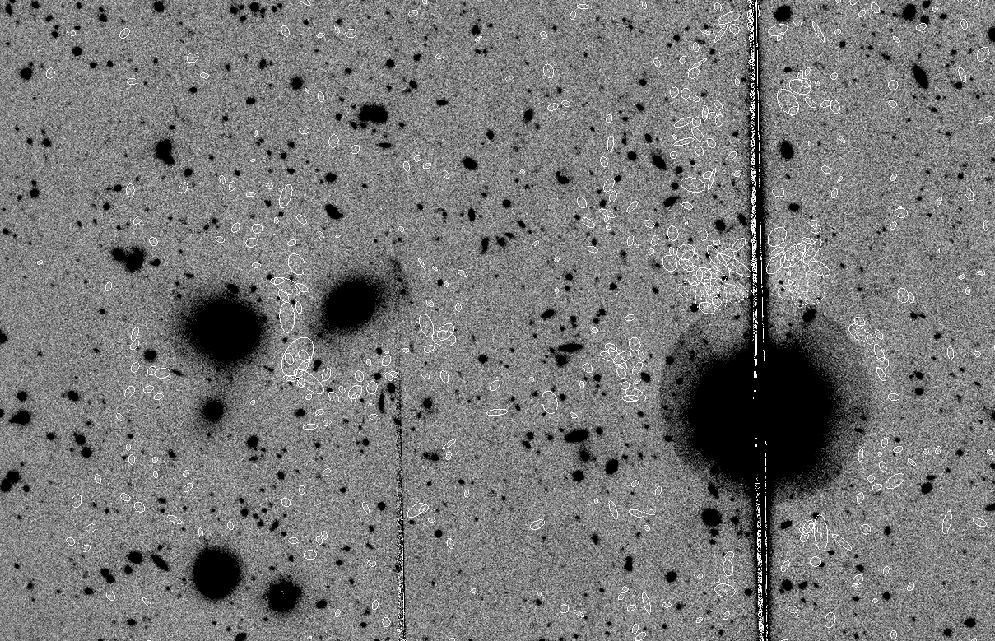
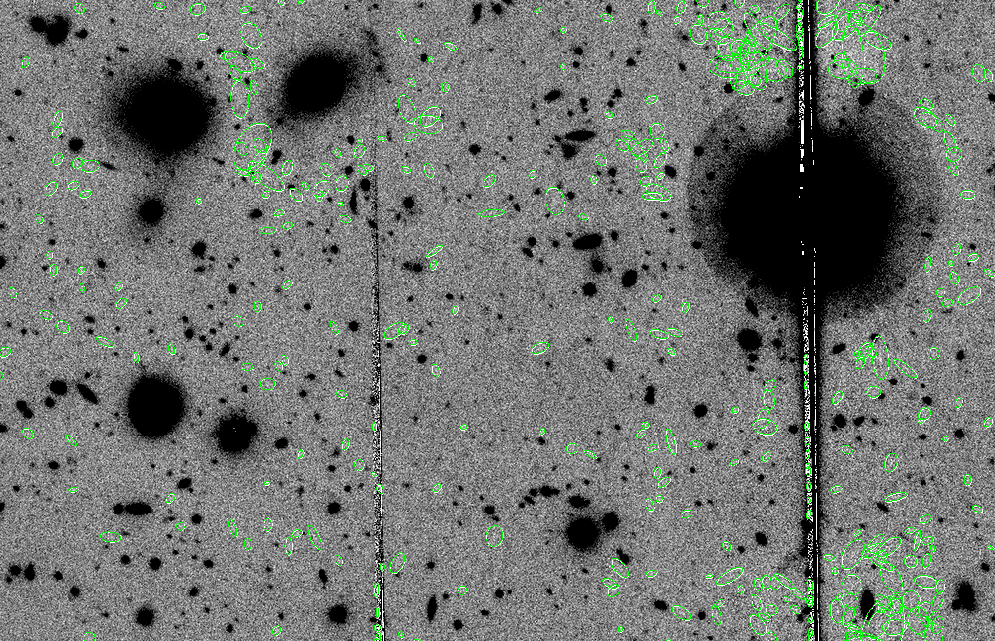
Agregando imagenes de chequeo para umbral y detect_minarea

diff --git a/Secciones/subaru.html b/Secciones/subaru.html
@@ -42,7 +42,7 @@
                     <th>1330</th>
                 </tr>
                 <tr>
-                    <th>PIXEL_SCALE</th>
+                    <th><code>PIXEL_SCALE</code></th>
                     <th>$5.160235\times 10^{-5}\times 3600 \approx 0.186\ \text{arcsec/pixel}$</th>
                 </tr>
                 <tr>
@@ -81,7 +81,7 @@
             </figure>
 
             <p>
-                En la figura anterior podemos observar algunas estrellas que parecen ser estrellas saturadas, sin embargo, el resto de la imagen parece estar bien, por lo que podemos continuar con el análisis de la imagen con los parámetros por defecto. Posteriormente, vamos a determinar los valores de umbralización que utilizará <span class="typewriter">SExtractor</span>, los parámetros <code>DETECT_THRESH</code> y <code>ANALYSIS_THRESH</code> los vamos a tomar con los valores por defecto, es decir, de 1.5, sin embargo, para determinar si este nivel de umbral es el indicado vamos a tomar los datos de la imagen de manera negativa, así, en teoría, si el nivel de umbral es el correcto, deberíamos detectar ningun objeto ya que no hay fuentes negativas. Para ello, vamos a realizar un pequeño código en <i>python</i>:
+                En la figura anterior podemos observar algunas estrellas que parecen ser estrellas saturadas, sin embargo, el resto de la imagen parece estar bien, por lo que podemos continuar con el análisis de la imagen con los parámetros por defecto. Posteriormente, vamos a determinar los valores de umbralización que utilizará <span class="typewriter">SExtractor</span>, los parámetros <code>DETECT_THRESH</code> y <code>ANALYSIS_THRESH</code> los vamos a tomar con los valores por defecto, es decir, de 1.5, sin embargo, para determinar si este nivel de umbral es el indicado vamos a tomar los datos de la imagen de manera negativa, así, en teoría, si el nivel de umbral es el correcto, no deberíamos detectar ningun objeto ya que no hay fuentes negativas. Para ello, vamos a realizar un pequeño código en <i>python</i>:
             </p>
 
             <pre><code>from astropy.io import fits
@@ -157,5 +157,83 @@ fits.writeto('imagen_neg.fits', -data, hdr, overwrite=True)
                     </tr>
                 </tbody>
             </table>
+
+            <figure class="figura">
+            
+                <img src="../IMAGENES/deteccionesumbral.png" alt="Grafico de detecciones de objetos en la imagen negativa con diferentes niveles de umbralización">
+
+                <figcaption>
+                    <strong>Figura 37:</strong> Gráfico de detecciones de objetos en la imagen negativa con diferentes niveles de umbralización.
+                </figcaption>
+            </figure>
+
+            <figure class="figura">
+                <img src="../IMAGENES/SUBARU/aperturesnegativa2,5.png" alt="Imagen de chequeo de APERTURES de la imagen negativa con un nivel de umbral de 2.5">
+
+                <figcaption>
+                    <strong>Figura 38:</strong> Imagen de chequeo <code>APERTURES</code> de la imagen negativa con un nivel de umbral de 2.5, podemos notar una gran disminución en la región superior derecha de la imagen, en comparación con la figura 36, sin embargo aún hay detecciones de objetos.
+                </figcaption>
+            </figure>
+
+            <p>
+                Con el umbral configurado, pasaremos a establecer el valor para <code>DETECT_MINAREA</code>, tomaremos valores de (3,5,7,10,12,15) y analizaremos el número de objetos detectados y extraidos, tomemos en cuenta que ya dejamos de lado la imagen negativa para usar la imagen original.
+            </p>
+
+            <table>
+                <thead>
+                    <tr>
+                        <th><code>DETECT_MINAREA</code></th>
+                        <th>Objetos detectados</th>
+                        <th>Objetos extraidos</th>
+                    </tr>
+                </thead>
+                <tbody>
+                    <tr>
+                        <td>3</td>
+                        <td>69498</td>
+                        <td>62910</td>
+                    </tr>
+                    <tr>
+                        <td>5</td>
+                        <td>66021</td>
+                        <td>60065</td>
+                    </tr>
+                    <tr>
+                        <td>7</td>
+                        <td>63249</td>
+                        <td>57764</td>
+                    </tr>
+                    <tr>
+                        <td>10</td>
+                        <td>59181</td>
+                        <td>54085</td>
+                    </tr>
+                    <tr>
+                        <td>12</td>
+                        <td>56889</td>
+                        <td>52059</td>
+                    </tr>
+                    <tr>
+                        <td>15</td>
+                        <td>53262</td>
+                        <td>48791</td>
+                    </tr>
+                </tbody>
+            </table>
+
+            <div class="comparacion-grid3">
+
+                <figure>
+                    <img src="../IMAGENES/SUBARU/aperturesmin3.png" alt="Imagen de chequeo APERTURES con un valor de DETECT_MINAREA=3">
+
+                    <figcaption>
+                        <strong>a)</strong>
+                    </figcaption>
+                </figure>
+
+                figure
+
+            </div>
+
             
         </section>
